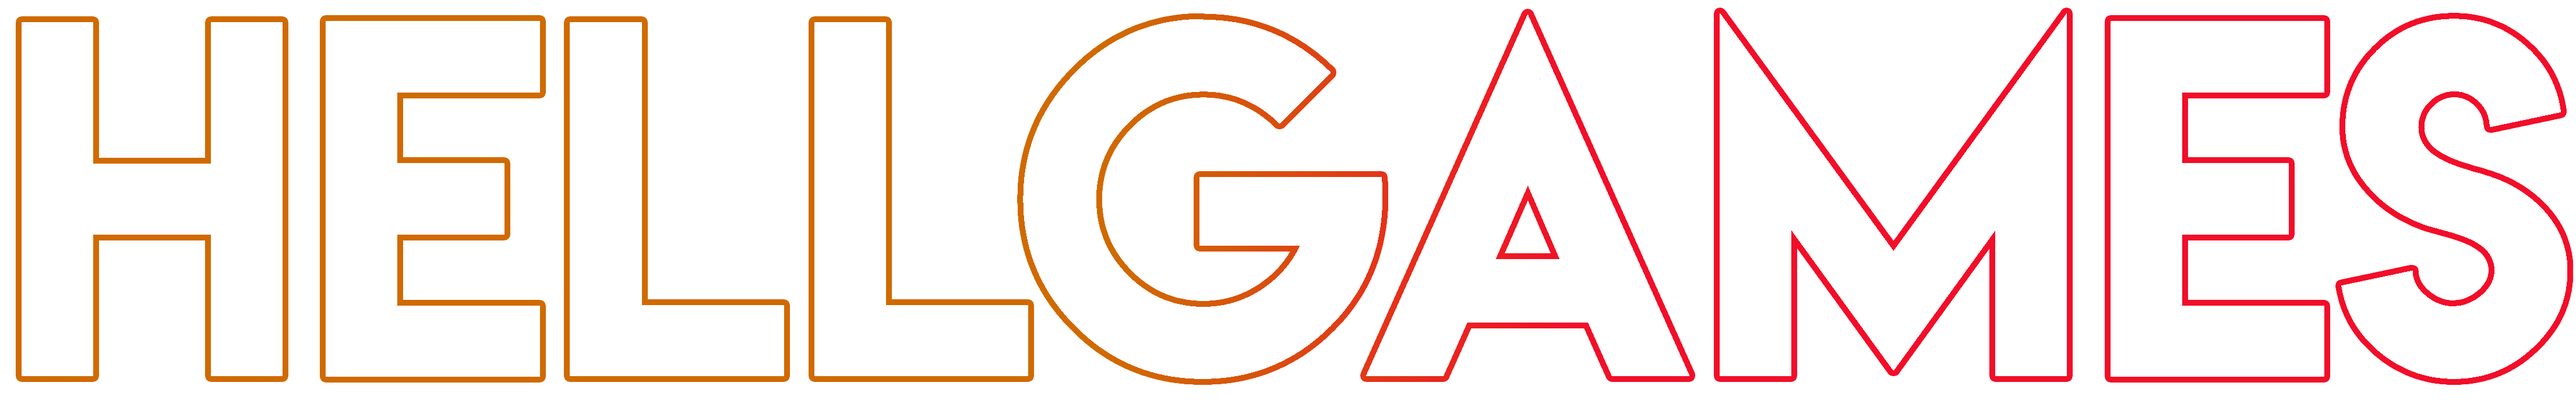
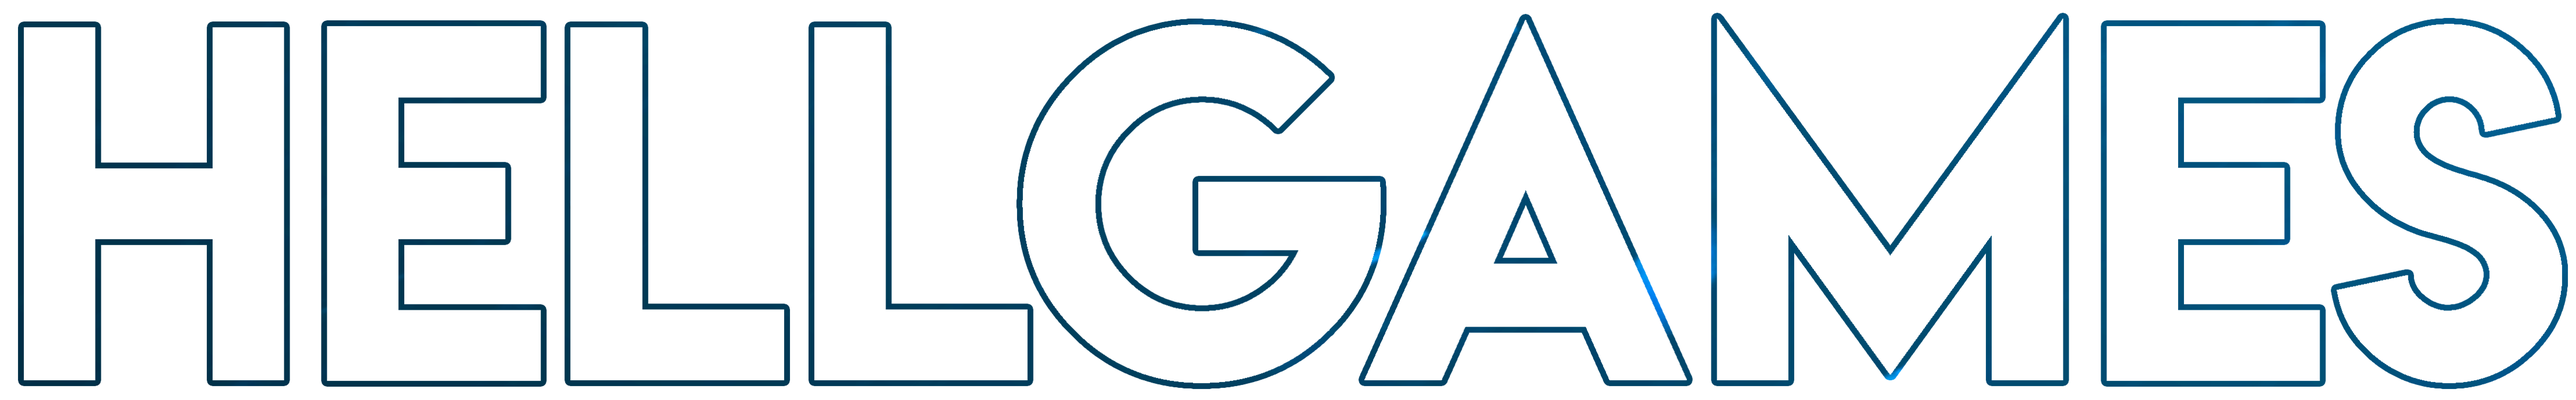
03.02

diff --git a/index.html b/index.html
@@ -63,42 +63,42 @@
  <img alt="https://play.google.com/store/apps/details?id=com.HELLGames.SHOOTC" src="https://play-lh.googleusercontent.com/vo7mEuD7pUsTBHAZn3ogeT4hjSiK4sZqZt1ov6Rv2f8RIsXRqcmXqZyuIMVb320QXwd0=s180-rw"
  style="height:180px; 
  width:180px; 
- border-style:solid; border-color:#000000;  border-width:2px;"
+ border-style:solid; border-color:#0d4e81;  border-width:2px;"
  /></a>
  <a href="https://play.google.com/store/apps/details?id=com.HELLGames.ObstaclesCourse" target="_blank">
  <img alt="https://play.google.com/store/apps/details?id=com.HELLGames.ObstaclesCourse" src="https://play-lh.googleusercontent.com/VWEStkwHYL9_peLskHqBsTopNqnrWkSgDRfDEc2cci8tflNfbaitbq4DColgcEPLbbc=s180-rw"
  style="height:180px; 
  width:180px; 
  margin-right:5px; 
- border-style:solid; border-color:#000000; border-width:2px;"
+ border-style:solid; border-color:#0d4e81; border-width:2px;"
  /></a>
  <a href="https://play.google.com/store/apps/details?id=com.HELLGames.VeryFatManPusher" target="_blank">
  <img alt="https://play.google.com/store/apps/details?id=com.HELLGames.VeryFatManPusher" src="https://play-lh.googleusercontent.com/P7HBa8Wd8Q4hYlQMatUCZqtBm5E-CfPWXahN-iPhKqyvkHZyzOi979tjw7EEzoJkuPs=s180-rw"
  style="height:180px; 
  width:180px; 
  margin-right:5px; 
- border-style:solid; border-color:#000000; border-width:2px;"
+ border-style:solid; border-color:#0d4e81; border-width:2px;"
  /></a>
  <a href="https://play.google.com/store/apps/details?id=com.HELLGames.StrongPusher" target="_blank">
  <img alt="https://play.google.com/store/apps/details?id=com.HELLGames.StrongPusher" src="https://play-lh.googleusercontent.com/EWvTNPDl98Am_g-ENZyQV7m-3R0R9aAyQG2mBImhFOz5jQYFo-wJyrBQu1qKXUN3Bq4=s180-rw"
  style="height:180px; 
  width:180px; 
  margin-right:5px; 
- border-style:solid; border-color:#000000; border-width:2px;"
+ border-style:solid; border-color:#0d4e81; border-width:2px;"
  /></a>
  <a href="https://play.google.com/store/apps/details?id=com.HELLGames.AnimalTransformPusherRace" target="_blank">
  <img alt="https://play.google.com/store/apps/details?id=com.HELLGames.AnimalTransformPusherRace" src="https://play-lh.googleusercontent.com/UtAnNsRqhsg1Vu4QRPyUKZcVCFni9cKLO8y28V4uf8BrC2xn3vJA2GMM3IoCWQNiQnk=s180-rw"
  style="height:180px; 
  width:180px; 
  margin-right:5px; 
- border-style:solid; border-color:#000000; border-width:2px;"
+ border-style:solid; border-color:#0d4e81; border-width:2px;"
  /></a>
  <a href="https://play.google.com/store/apps/details?id=com.HELLGames.FatBodyRacePusher" target="_blank">
  <img alt="https://play.google.com/store/apps/details?id=com.HELLGames.FatBodyRacePusher" src="https://play-lh.googleusercontent.com/h42Hu3PNR9u-l7CTQ9E8jVedw4_KoVn30HGxp7ERlYq4iVUXSnVNhnZ5WsTOC4hBtY5s=s180-rw"
  style="height:180px; 
  width:180px; 
  margin-right:5px; 
- border-style:solid; border-color:#000000; border-width:2px;"
+ border-style:solid; border-color:#0d4e81; border-width:2px;"
  /></a>
  </p>
  </div>
